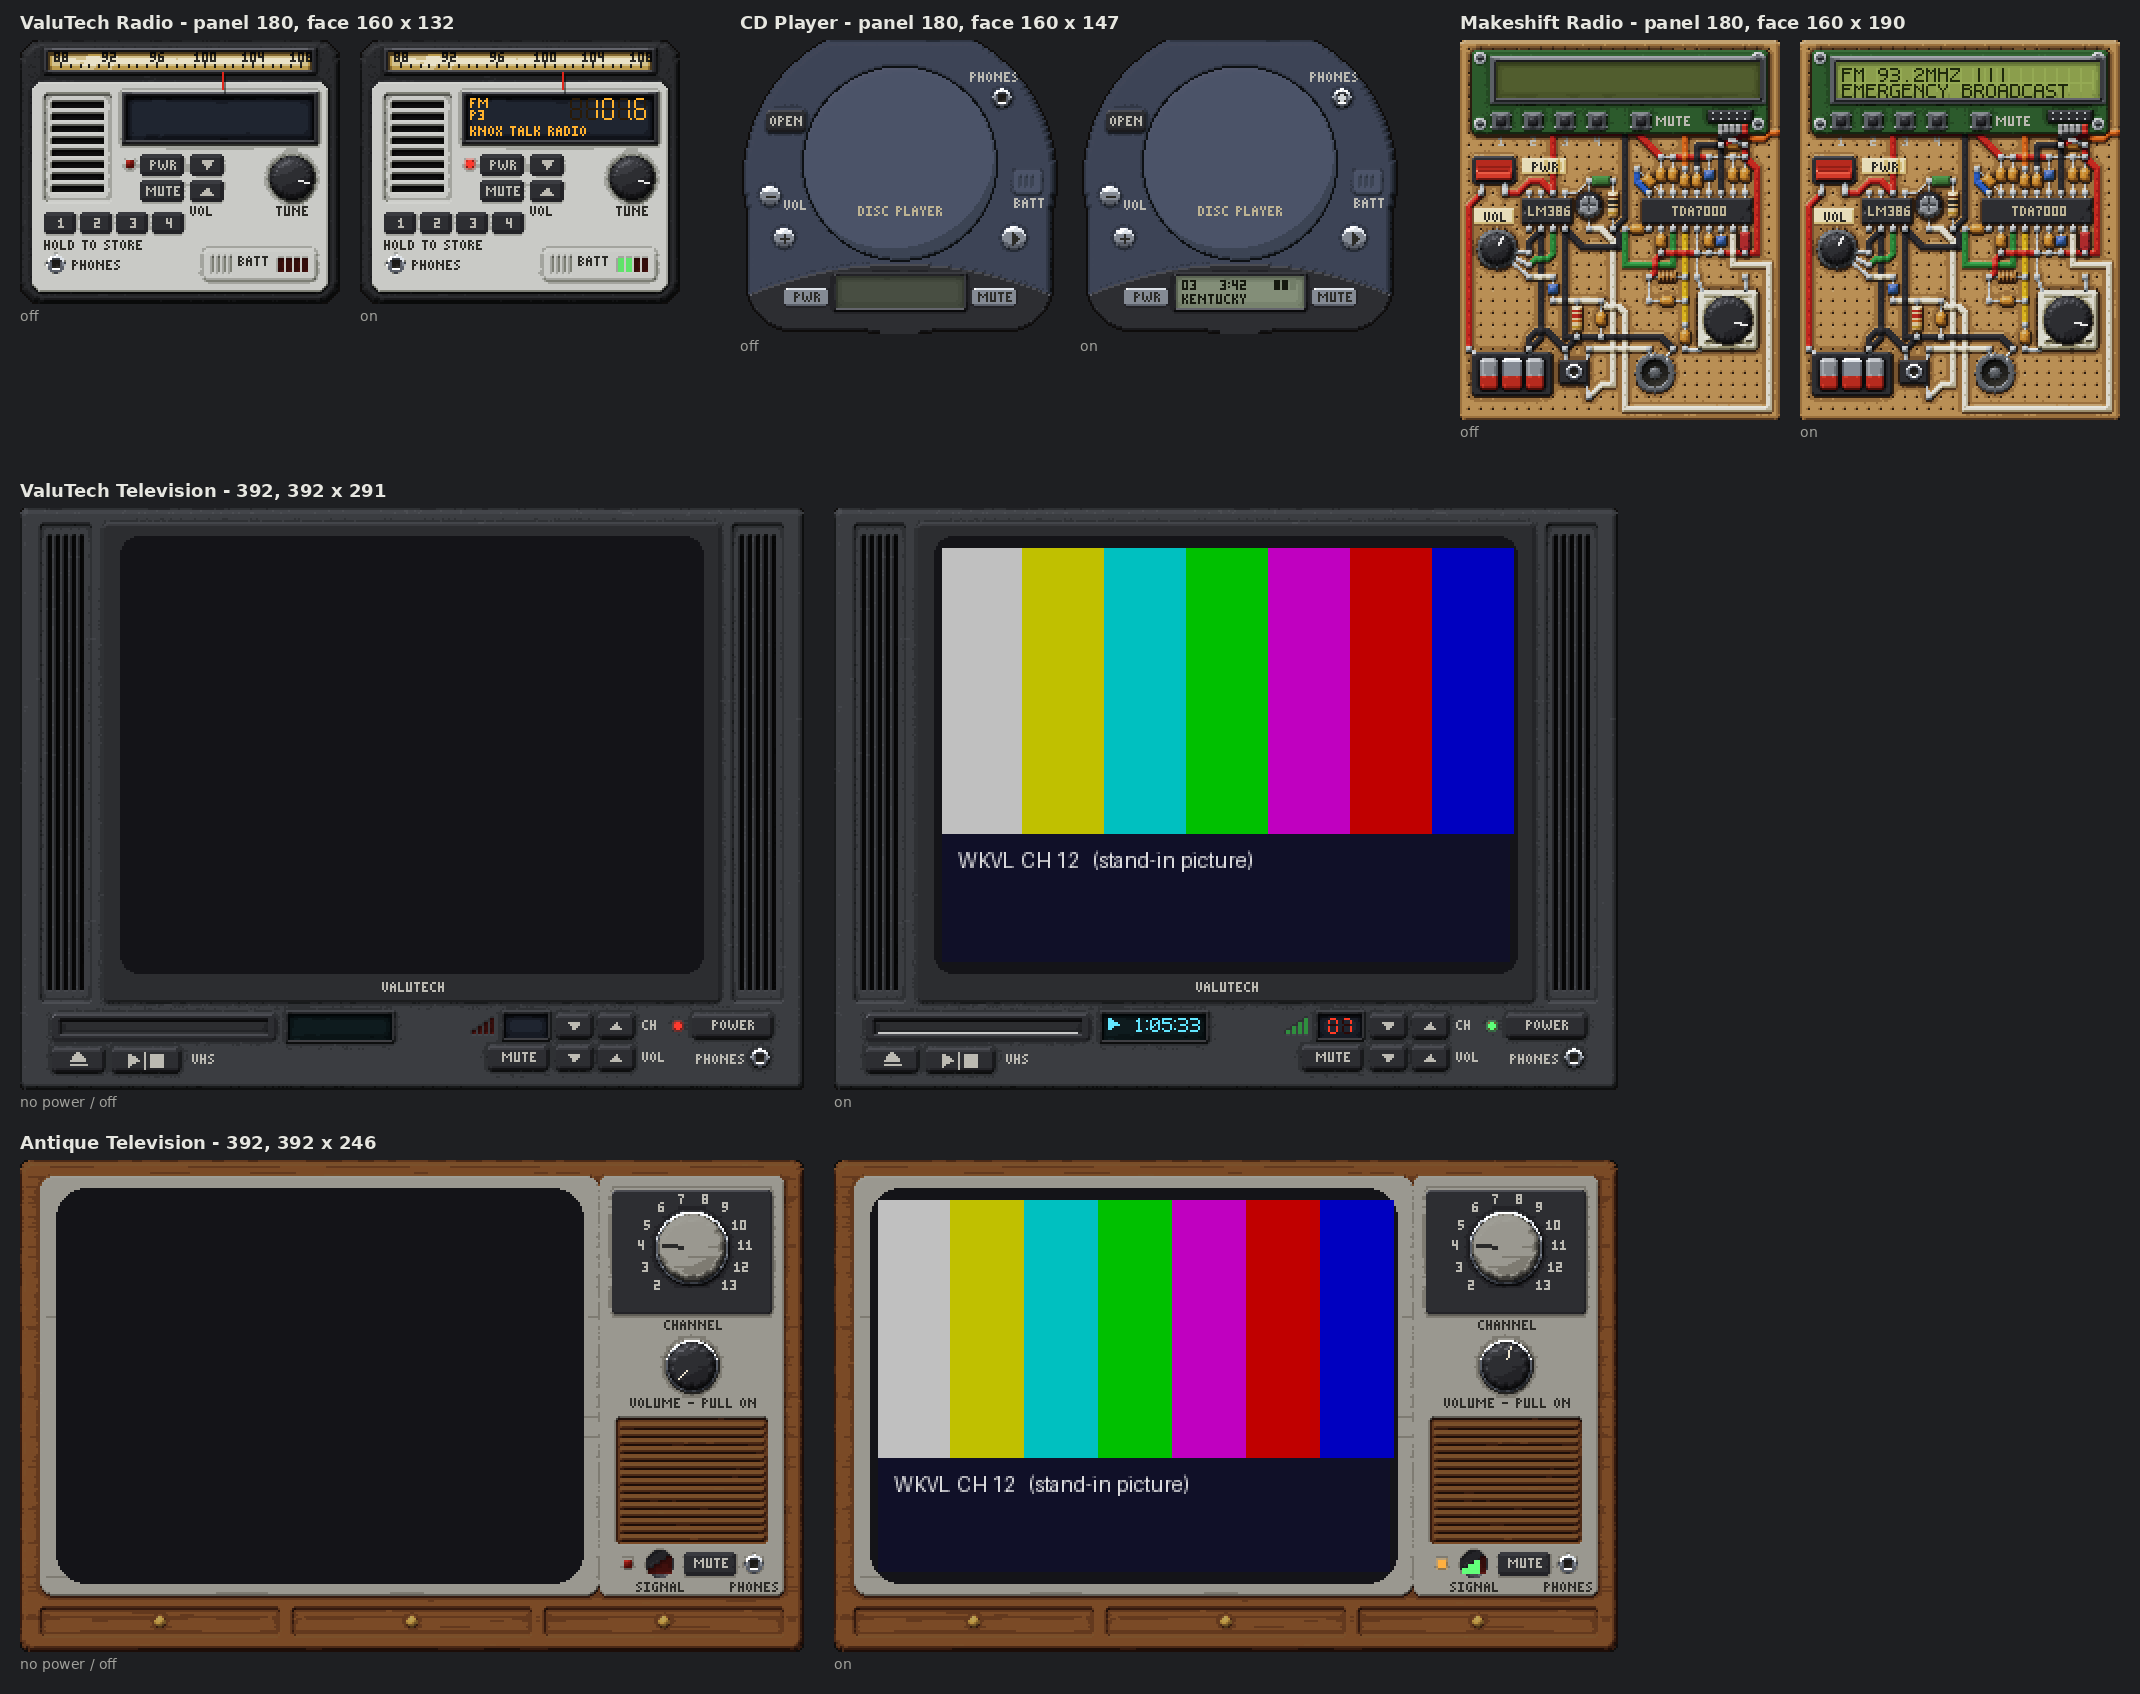
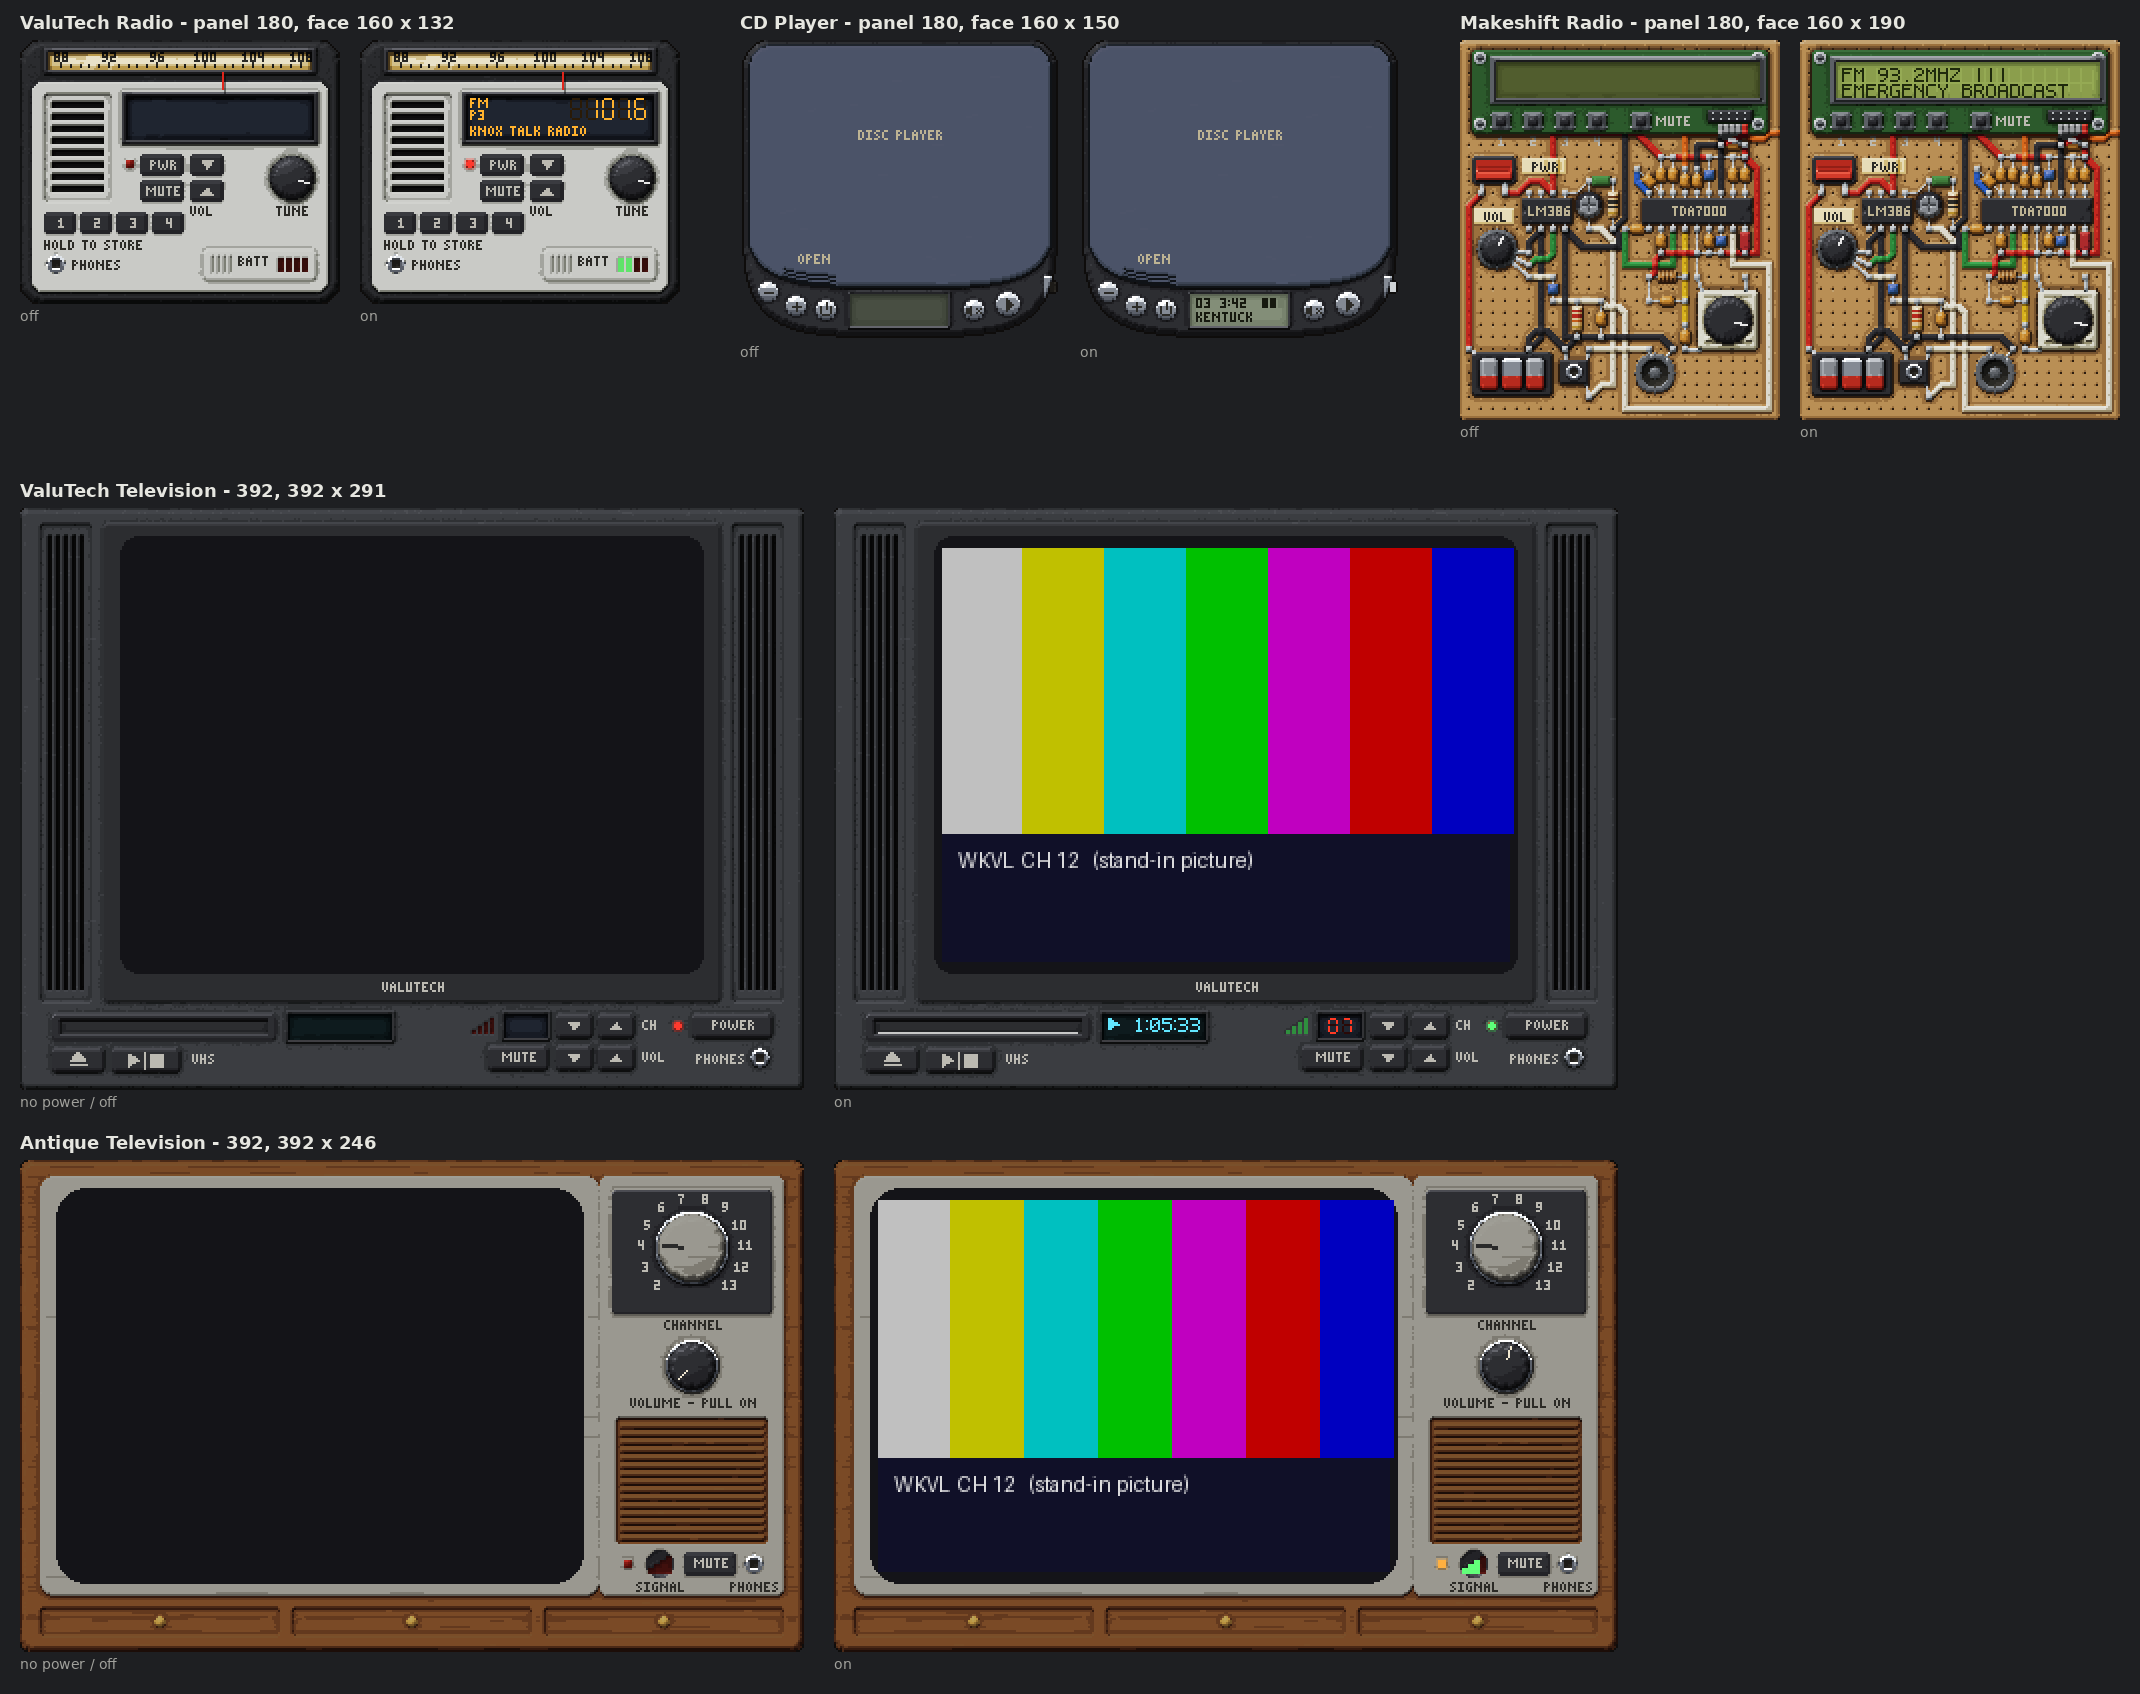
Design: CD player approved, rebuilt on the D-223
The lid is the whole top, 80% of the face; the front is a squircle
with an even strip under the lid for the controls: VOL - and +, power,
the LCD, mute, play. OPEN is a ribbed lip on the lid's edge, the
headphone jack is in the side, and there is no battery door: clicking
the LCD's battery meter (or the item's right-click) changes it.

Claude-Session: https://claude.ai/code/session_015Lv8fXDH1kuxg46sEw6iLh

Changed region(s): [[0.3393, 0.0, 0.6477, 0.2149], [0.3701, 0.0, 0.4318, 0.0307]]

diff --git a/ZeDUI/tools/physpx/d_rtv.py b/ZeDUI/tools/physpx/d_rtv.py
@@ -374,8 +374,8 @@ def lay_disc(w):
     """the disc player's little LCD (w x 16): the track and the time, the battery at the right; the title marching"""
     return [
         {"t": "text", "src": "track", "x": 3, "y": 2, "font": "35"},
-        {"t": "text", "src": "time", "x": 22, "y": 2, "font": "35"},
-        {"t": "bars", "src": "batt", "x": w - 15, "y": 7, "n": 3, "bw": 3, "gap": 1, "h0": 5, "dh": 0},
+        {"t": "text", "src": "time", "x": 15, "y": 2, "font": "35"},
+        {"t": "bars", "src": "batt", "x": w - 13, "y": 7, "n": 3, "bw": 3, "gap": 1, "h0": 5, "dh": 0},
         {"t": "text", "src": "line", "x": 3, "y": 9, "font": "35", "w": w - 6, "marquee": True},
     ]
 
@@ -393,70 +393,97 @@ def round_key(p, pid, cx, cy, r, icon=None, mat="chrome", ink="paint_k", on=Z_FA
     elif icon == "stop": d.paint(rbox(d, int(cx - 1), int(cy - 1), 3, 3), ink, flatlight=True)
     elif icon == "play":
         for i in range(4): d.paint(rbox(d, int(cx - 1 + i), int(cy - 3 + i), 1, 7 - 2 * i), ink, flatlight=True)
+    elif icon == "power":                        # the power mark: a broken ring and its stroke
+        ring_ = ring(d, cx, cy, 2.2, 3.3) & ~((d.YY < cy - 1) & (abs(d.XX + 0.5 - cx) < 1.6))
+        d.paint(ring_, ink, flatlight=True); d.paint(rbox(d, int(cx), int(cy - 4), 1, 4), ink, flatlight=True)
+    elif icon == "mute":                         # a small speaker and a cross
+        d.paint(rbox(d, int(cx - 4), int(cy - 1), 2, 3), ink, flatlight=True)
+        d.paint(rbox(d, int(cx - 2), int(cy - 2), 1, 5), ink, flatlight=True)
+        for i in range(3):
+            d.paint(rbox(d, int(cx + 1 + i), int(cy - 1 + i), 1, 1), ink, flatlight=True)
+            d.paint(rbox(d, int(cx + 3 - i), int(cy - 1 + i), 1, 1), ink, flatlight=True)
     p.hit(pid, cx - r - 1, cy - r - 1, 2 * r + 2, 2 * r + 2)
 
 
 def cd_player(W=180, worn_=True):
-    """CD Player (Base.CDplayer): a portable disc player, batteries, no tuner. Drawn on the player the game's is based
-    on (the director's photo, Oct 30 2026: a 2000s portable): a round body, the big round lid, the controls on the rim
-    round it, the little LCD in the flat strip at the front. No maker's marks.
-    Controls: the lid (slot: open it to put a disc in or take it out), OPEN (eject) on the rim, VOL - and + at the lower
-    left, stop-and-play at the lower right, POWER and MUTE either side of the LCD, the headphone jack and the battery
-    door on the rim."""
+    """CD Player (Base.CDplayer): a portable disc player, batteries, no tuner. Drawn on the players the game's is based
+    on (the director's photos, Oct 30 2026: the 1990s and 2000s portables). Round 3 (director: "buttons on the bottom,
+    the top and middle are the CD lid. usually minimal buttons on the lid"; the photos): the lid is the whole top of the
+    player, about four fifths of the face, its edge the body's own; along the front under it, one row of controls.
+    The lid carries nothing but its name and OPEN.
+    Controls: the lid (slot: open it to put a disc in or take it out) and OPEN, a ribbed lip on its front edge; along the
+    front, VOL - and +, POWER, the LCD, MUTE, play; the
+    headphone jack in the right side wall (director: "phones would be on the side"). No battery door (director: "for the
+    battery, lose the button, clicking the meter on the screen or right click in the inventory can change the battery"):
+    the battery hit is the LCD's meter. No maker's marks."""
+    import numpy as np
     F = W - 20
-    H = int(round(F * 0.92))
+    H = int(round(F * 0.94))
     p = Plate("cd_player", F, H, seed=331, title="CD Player")
     d = p.d
-    # the body: a circle with its front flattened, big round corners (the player seen from above)
-    bcx, bcy, br = F / 2, H * 0.47, F / 2 - 2
-    body = disc(d, bcx, bcy, br) | Mask(F, H).rrect(4, int(H * 0.47), F - 8, H - int(H * 0.47) - 2, 22).get()
-    d.slab(body, Z_FACE, "cd_grey", bevel=3.0, polish=0.6)
+    # the body (the D-223, director's photo, Oct 30 2026): square shoulders at the top and a squircle front
+    # (director: "more squircle bottom, give the buttons more room")
+    bcx, n_ = F / 2, 4.0
+    yb, ys = H - 2, int(H * 0.55)                 # the front's lowest point; where the squircle front starts
+    def sq(cy, a, b):                             # the lower half of a squircle centred at (bcx, cy)
+        return ((np.abs(d.XX + 0.5 - bcx) / a) ** n_ + (np.abs(d.YY + 0.5 - cy) / b) ** n_ <= 1) & (d.YY >= cy)
+    def sq_y(x, cy, a, b):
+        t = min(1.0, abs(x - bcx) / a)
+        return cy + b * (1 - t ** n_) ** (1 / n_)
+    aB, bB = bcx - 2, yb - ys
+    body = Mask(F, H).rrect(2, 0, F - 4, ys + 10, 14).get() | sq(ys, aB, bB)
+    d.slab(body, Z_FACE, "blackp", bevel=3.0, polish=0.6)
     d.grain_pebble(body, 0.02, seed=332)
-    # the lid: a raised disc with its seam; the whole lid opens (slot)
-    lr = int(round(F * 0.30))
-    lcx, lcy = F / 2, H * 0.42
-    d.seam(ring(d, lcx, lcy, lr, lr + 1), 0.8)
-    d.dome(lcx, lcy, lr, lr, 1.6, "cd_lid", polish=0.75, on=Z_FACE)
-    p.hit("slot", lcx - lr, lcy - lr, 2 * lr, 2 * lr)
-    p.label("DISC PLAYER", int(lcx), int(lcy + lr * 0.45), "paint_c", align="c", auto_ink=False, check=False)
-    # the front strip: a dark crescent under the lid, the LCD in it, POWER and MUTE at its ends
-    sy0 = int(lcy + lr + 3)
-    strip = Mask(F, H).ellipse(F / 2, sy0 + 260, F * 1.4, 260).get() & body       # a band whose top bows up a little
-    d.slab(strip, 0.5, "blackp", bevel=0.8, polish=0.6, on=Z_FACE)
-    zs = Z_FACE + 0.5
-    lw, lh = int(F * 0.40), 16
-    lx, ly = int(F / 2 - lw / 2), sy0 + 6
+    inner = Mask(F, H).rrect(4, 2, F - 8, ys + 8, 12).get() | sq(ys, aB - 2, bB - 2)
+    # the lid: the whole top; its front edge a second squircle above the body's, leaving an even band of front for the
+    # controls, a little deeper at the middle for the LCD
+    band = 24                                     # the band's depth at the middle
+    ysL = ys - 8                                  # where the lid's front starts curving at the sides
+    aL, bL = aB, (yb - band) - ysL
+    lid = inner & ((d.YY < ysL) | sq(ysL, aL, bL))
+    d.seam(lid ^ (lid & np.roll(lid, -1, 0) & np.roll(lid, 1, 0) & np.roll(lid, -1, 1) & np.roll(lid, 1, 1)), 0.6)
+    d.slab(lid, 1.8, "cd_lid", bevel=2.4, polish=0.75, on=Z_FACE)
+    ys_l, xs_l = np.nonzero(lid)
+    p.hit("slot", int(xs_l.min()), int(ys_l.min()), int(xs_l.max() - xs_l.min() + 1), int(ys_l.max() - ys_l.min() + 1))
+    p.label("DISC PLAYER", int(bcx), int(H * 0.30), "paint_c", align="c", auto_ink=False, check=False)
+    edge = lambda x: sq_y(x, ysL, aL, bL)         # the lid's front edge at column x
+    bottom = lambda x: sq_y(x, ys, aB, bB)        # the body's front edge at column x
+    mid = lambda x: int(round((edge(x) + bottom(x)) / 2))
+    # OPEN (director: "the open is like a lip, you pull up on"): the lid keeps its outline; at the left of its front
+    # the edge is a lip, ribbed for the thumb, its name above the ribs
+    tx0, tx1 = int(F * 0.14), int(F * 0.30)
+    span = (d.XX >= tx0) & (d.XX < tx1)
+    for k in (2, 4, 6):
+        d.seam(lid & ~sq(ysL, aL, bL - k) & sq(ysL, aL, bL - k + 1) & span, 0.5)
+    tcx = (tx0 + tx1) // 2
+    p.label("OPEN", tcx + 2, int(edge(tcx)) - 15, "paint_c", align="c", auto_ink=False, check=False)
+    lip = lid & ~sq(ysL, aL, bL - 17) & (d.YY >= ysL) & span
+    ys_, xs_ = np.nonzero(lip)
+    p.hit("eject", int(xs_.min()), int(ys_.min()), int(xs_.max() - xs_.min() + 1), int(ys_.max() - ys_.min() + 1))
+    zs = Z_FACE
+    # the LCD at the bottom of the crescent, where it is widest
+    lw, lh = int(F * 0.31), 16
+    lx = int(bcx - lw / 2)
+    ly = int(round(edge(bcx))) + 3
     window_glass(p, lx - 1, ly - 1, lw + 2, lh + 2, face="lcdgrey", bezel="blackp", depth=1.2, on=zs, r=1, bezel_t=1, lens=False)
     p.part("radioDisplay", kind="disc", style="lcd", x=lx, y=ly, w=lw, h=lh)
-    pk = lambda pid, x, lab: PR.radio_key(p, pid, x, ly + 6, 22, 9, lab, mat="chrome", lab_mat="paint_k", z=1.0)
-    pk("power", lx - 26, "PWR")
-    pk("mute", lx + lw + 4, "MUTE")
-    # the rim's controls: VOL - + at the lower left, stop and play at the lower right
-    a = math.radians
-    def rim(angle, rr):
-        return bcx + math.cos(a(angle)) * rr, bcy + math.sin(a(angle)) * rr
-    rr_ = (lr + br) / 2 + 2
-    x1, y1 = rim(172, rr_); x2, y2 = rim(152, rr_)
-    round_key(p, "voldn", int(x1), int(y1), 5, icon="minus")
-    round_key(p, "volup", int(x2), int(y2), 5, icon="plus")
-    p.label("VOL", int((x1 + x2) / 2) + 8, int((y1 + y2) / 2) - 8, "paint_w", align="c", auto_ink=False, check=False)
-    x4, y4 = rim(28, rr_)
-    round_key(p, "play", int(x4), int(y4), 6, icon="play")
-    # the rim's top: OPEN at the left, the headphone jack and the battery door at the right
-    x5, y5 = rim(205, rr_)
-    PR.radio_key(p, "eject", int(x5) - 8, int(y5) - 6, 20, 11, "OPEN", mat="blackp", lab_mat="paint_w", z=1.0)
-    x6, y6 = rim(-38, rr_)
-    jack(p, int(x6), int(y6), label=None)
-    p.label("PHONES", int(x6) - 4, int(y6) - 13, "paint_w", align="c", auto_ink=False, check=False)
-    x7, y7 = rim(2, rr_)
-    door = Mask(F, H).rrect(int(x7) - 7, int(y7) - 6, 14, 12, 2).get()
-    d.slab(door, 0.6, "cd_lid", bevel=0.6, polish=0.4, on=Z_FACE)
-    for xx in range(int(x7) - 4, int(x7) + 5, 3): d.well(Mask(F, H).rect(xx, int(y7) - 3, 1, 6).get(), 0.5, None, bevel=0.3)
-    p.label("BATT", int(x7), int(y7) + 8, "paint_w", align="c", auto_ink=False, check=False)
-    p.hit("battery", int(x7) - 7, int(y7) - 6, 14, 12)
+    p.hit("battery", lx + lw - 14, ly + 5, 13, 9)   # no door: clicking the meter (or the item's right-click) changes it
+    # the round keys up the crescent either side: VOL - and +, POWER at the left; MUTE and play at the right
+    for pid, ic, x, r in (("voldn", "minus", 0.085, 5), ("volup", "plus", 0.175, 5), ("power", "power", 0.27, 5),
+                          ("mute", "mute", 0.73, 5), ("play", "play", 0.835, 6)):
+        cx = int(round(F * x))
+        round_key(p, pid, cx, mid(cx), r, icon=ic, on=zs)
+    # the headphone jack in the right side wall, just under the lid (director: "phones would be on the side")
+    jy = mid(F - 10)
+    sock = Mask(F, H).rect(F - 8, jy - 5, 6, 11).get() & body
+    d.slab(sock, 0.8, "chrome", bevel=0.6, polish=1.0, on=Z_FACE)
+    hole = Mask(F, H).rect(F - 5, jy - 2, 3, 5).get()
+    d.well(hole, 1.0, "hole", bevel=0.3)
+    p.lamp(hole, "phonesIn", "#cfd3d6", halo=False)
+    p.hit("phones", F - 9, jy - 6, 9, 13)
     if worn_:
         WR.grime(d, d.solid, amount=0.18, seed=333)
-        WR.scuffs(d, WR.mat_mask(d, "cd_grey"), 0.0012, seed=334, amount=0.10)
+        WR.scuffs(d, WR.mat_mask(d, "cd_lid"), 0.0012, seed=334, amount=0.10)
     return p
 
 
